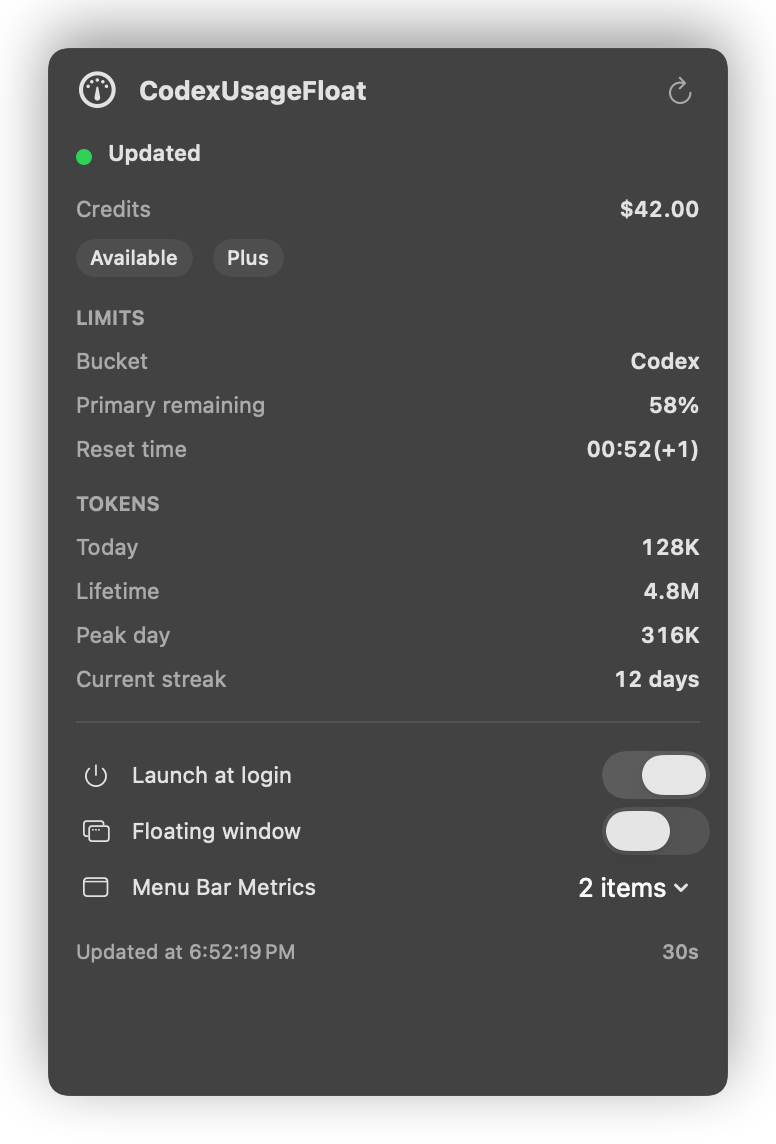
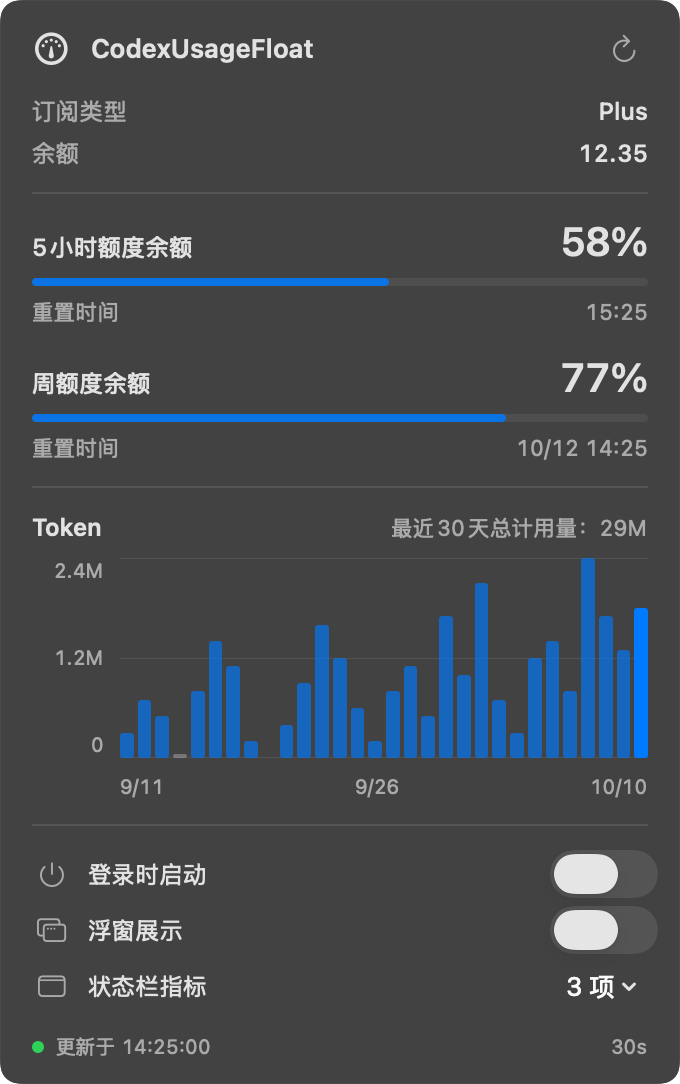
docs: restructure bilingual READMEs and refresh panel preview

diff --git a/README.md b/README.md
@@ -1,54 +1,94 @@
 # CodexUsageFloat
 
-一个用于显示代码智能体用量状态的小型 macOS 菜单栏工具。当前 provider 是 Codex，底层通过本地 Codex app-server 获取数据。
+**English** · [简体中文](README_CN.md)
 
-## 界面预览
+A macOS menu bar app that keeps your Codex quota, reset times, and token usage in view.
+
+[Download](https://github.com/pspgbhu/CodexUsageFloat/releases/latest) · [Report an issue](https://github.com/pspgbhu/CodexUsageFloat/issues)
 
 <p align="center">
-  <img src="docs/images/codex-usage-float-panel.png" alt="CodexUsageFloat 用量面板截图（示例数据）" width="388">
+  <img src="docs/images/codex-usage-float-panel.png" alt="CodexUsageFloat in Simplified Chinese, showing sample Plus quotas, a 30-day token usage chart, and display settings" width="340">
 </p>
 
-## 构建
+- **Quota at a glance.** View your subscription plan, credits, remaining quota, and reset times.
+- **30-day usage history.** Hover over the chart to inspect individual days.
+- **Your choice of display.** Select menu bar metrics or move them into a draggable floating window.
+- **Automatic updates.** Refreshes every 30 seconds by default, with manual refresh, launch at login, and English and Simplified Chinese interfaces.
+
+The preview uses sample Plus data. The quota periods shown depend on your subscription and the data available from Codex.
+
+## Install
+
+You need **macOS 13 or later** and a signed-in Codex client installed in `/Applications` as `ChatGPT.app` or `Codex.app`. Release packages support Apple Silicon and Intel Macs.
+
+1. Download the `.dmg` from [Releases](https://github.com/pspgbhu/CodexUsageFloat/releases/latest).
+2. Open it and drag `CodexUsageFloat.app` into Applications. For a `.zip` download, extract it and move the app there.
+3. Open CodexUsageFloat, then click its menu bar icon to view your usage.
+
+The app runs without a Dock icon. Launch at login is enabled by default and can be turned off in the panel.
+
+## Use
+
+| Action | How |
+| --- | --- |
+| Open the usage panel | Click the menu bar icon. |
+| Refresh now | Click the refresh button at the top of the panel. The footer shows the last successful refresh time and refresh interval. |
+| Choose visible metrics | Use **Menu Bar Metrics** in the panel. Select quota, reset time, or credits; choose **Icon only** to hide the text. |
+| Show a floating window | Enable **Floating window**, then drag it into position. Selected metrics move to the window; the menu bar keeps its icon. |
+| Change language or quit | Right-click the menu bar icon or floating window. |
+| Inspect a day's token usage | Hover over its column in the chart. |
+
+### Reading the numbers
+
+- **Quota percentages show what remains.** The current panel shows five-hour and weekly windows for Plus, and a weekly window for Pro. Other plans use recognized windows reported by Codex; missing values appear as unavailable.
+- **Credits are separate from quota percentages.** Numeric balances display at most two decimal places.
+- **Tokens are historical usage, not a remaining allowance.** The chart covers the past 30 days, including today. Its total sums only reported days; missing days are not treated as zero.
+- **A stale warning means the last refresh failed.** Previously retrieved values stay visible until a refresh succeeds. Data freshness also depends on what Codex reports.
+
+## Troubleshooting
+
+| Symptom | What to check |
+| --- | --- |
+| Login required or data unavailable | Open your Codex client, confirm you are signed in, then refresh the panel. |
+| Refresh stops after a client update | Update CodexUsageFloat and reopen it. The app supports both the current nested Codex CLI location in ChatGPT and older bundled locations. |
+| Data is marked stale | Check your connection and that the Codex client works, then refresh again. The displayed values are from the last successful refresh. |
+| macOS cannot verify the developer | Confirm the download came from this project's Releases. For an unnotarized build, use **System Settings → Privacy & Security → Open Anyway** after attempting to open it. |
+| Launch at login fails after moving the app | Open it from its new location, then turn **Launch at login** off and back on. |
+
+For a reproducible problem, [open an issue](https://github.com/pspgbhu/CodexUsageFloat/issues) with your macOS, Codex client, and CodexUsageFloat versions, steps to reproduce, and the visible error. Remove account details and credentials from screenshots or logs.
+
+## Update or uninstall
+
+**Update:** Quit CodexUsageFloat, replace it with the new version from [Releases](https://github.com/pspgbhu/CodexUsageFloat/releases/latest), and reopen it. Keep it in the same location so the login item still points to the app.
+
+**Uninstall:** Disable **Launch at login** in the panel, quit the app, and delete it from Applications.
+
+## Data and privacy
+
+CodexUsageFloat asks the local Codex app server for account and usage information using the client's existing login. You do not enter a password or API key in this app. It saves display preferences and keeps fetched usage in memory, without storing its own copy of login credentials or usage history.
+
+The app focuses on Codex. Token usage is supplied by Codex; it is not estimated from your conversations.
+
+## Build from source
+
+Use a macOS Swift toolchain that supports Swift tools version 5.9 or later. Running the test suite also requires XCTest.
 
 ```bash
+git clone https://github.com/pspgbhu/CodexUsageFloat.git
+cd CodexUsageFloat
 swift build -c release
-```
-
-## 运行测试
-
-```bash
 swift test
-```
-
-## 打包为应用
-
-```bash
 scripts/package-app.sh
 open dist/CodexUsageFloat.app
 ```
 
-## 安装登录启动 LaunchAgent
+The packaging script produces `dist/CodexUsageFloat.app` and falls back to direct `swiftc` compilation if SwiftPM fails. This fallback packages the app; it does not run the test suite. If `swift test` reports that XCTest is missing, use an Xcode toolchain that includes it.
 
-```bash
-scripts/install-launch-agent.sh
-```
+| Location | Purpose |
+| --- | --- |
+| `Sources/AgentUsageCore` | Usage models, provider protocol, Codex app-server client, and response mapping. |
+| `Sources/CodexUsageFloat` | SwiftUI/AppKit interface, preferences, and login item management. |
+| `Tests/AgentUsageCoreTests` | Core model, formatting, protocol, and executable discovery tests. |
+| `scripts/` | App packaging, release artifacts, and LaunchAgent installation/removal. |
 
-如需在不安装的情况下验证 LaunchAgent plist：
-
-```bash
-DRY_RUN=1 PLIST_PATH=/tmp/com.local.codex-usage-float.plist scripts/install-launch-agent.sh
-```
-
-## 卸载
-
-```bash
-scripts/uninstall-launch-agent.sh
-```
-
-应用采用面向 provider 的设计：
-
-- `AgentUsageCore` 负责通用用量模型和 `UsageProvider` 协议。
-- `CodexUsageProvider` 是第一个 provider 实现，优先通过 `/Applications/ChatGPT.app/Contents/Resources/codex app-server --stdio` 读取用量，并兼容旧版 `Codex.app` 路径。
-- `CodexUsageFloat` 渲染 `UsageProvider` 提供的内容，因此新增代码智能体时无需重写菜单栏 UI。
-
-应用不会读取 `~/.codex/auth.json`，也不会持久化 token、邮箱地址或原始 provider 响应。
+For contribution constraints, see [AGENTS.md](AGENTS.md). For signing, notarization, and release packaging, see the [release guide](docs/releasing.md) (Chinese).

diff --git a/README_CN.md b/README_CN.md
@@ -1,0 +1,94 @@
+# CodexUsageFloat
+
+[English](README.md) · **简体中文**
+
+一款 macOS 菜单栏工具，随时查看 Codex 剩余额度、重置时间和 Token 用量。
+
+[下载最新版](https://github.com/pspgbhu/CodexUsageFloat/releases/latest) · [问题反馈](https://github.com/pspgbhu/CodexUsageFloat/issues)
+
+<p align="center">
+  <img src="docs/images/codex-usage-float-panel.png" alt="CodexUsageFloat 中文面板：Plus 示例额度、近 30 天 Token 用量图表与显示设置" width="340">
+</p>
+
+- **额度一目了然**：查看订阅类型、余额、剩余额度与重置时间。
+- **近 30 天用量**：将鼠标移到图表上，查看每天的 Token 使用情况。
+- **自选显示方式**：选择菜单栏指标，或将指标移到可拖动的桌面浮窗。
+- **自动更新**：默认每 30 秒刷新，支持手动刷新、登录时启动和中英文界面。
+
+预览使用 Plus 示例数据。实际显示的额度周期取决于订阅类型及 Codex 返回的数据。
+
+## 安装
+
+需要 **macOS 13 或更新版本**，并已在 `/Applications`（应用程序）中安装和登录 Codex 客户端 `ChatGPT.app` 或 `Codex.app`。发布安装包兼容 Apple Silicon 和 Intel Mac。
+
+1. 从 [Releases](https://github.com/pspgbhu/CodexUsageFloat/releases/latest) 下载 `.dmg` 安装包。
+2. 打开安装包，将 `CodexUsageFloat.app` 拖入「应用程序」。若下载 `.zip`，解压后将应用移入同一位置。
+3. 打开 CodexUsageFloat，点击菜单栏图标查看用量。
+
+应用不显示 Dock 图标。默认开启「登录时启动」，可在面板中关闭。
+
+## 使用
+
+| 操作 | 方法 |
+| --- | --- |
+| 打开用量面板 | 点击菜单栏图标 |
+| 立即刷新 | 点击面板顶部的刷新按钮；底部显示上次成功更新时间和刷新间隔 |
+| 选择显示指标 | 在面板的「状态栏指标」中选择额度、重置时间或余额；选择「仅显示图标」可隐藏文字 |
+| 开启桌面浮窗 | 打开「浮窗展示」并拖动到合适位置；所选指标移到浮窗，菜单栏保留图标 |
+| 切换语言或退出 | 右键点击菜单栏图标或浮窗 |
+| 查看某天的 Token 用量 | 将鼠标移到图表中对应日期的列上 |
+
+### 如何理解数据
+
+- **额度百分比表示剩余比例。** 当前面板为 Plus 显示 5 小时和周额度，为 Pro 显示周额度；其他套餐根据 Codex 返回的已识别周期展示，缺失的数值显示为不可用。
+- **余额与额度百分比分开显示。** 数值余额最多保留两位小数。
+- **Token 图表展示历史使用量，不代表剩余 Token。** 图表覆盖含今天在内的近 30 天，合计仅累加已上报日期的数据；未上报的日期不按零计算。
+- **过期提示表示最近一次刷新失败。** 面板保留之前成功获取的数值，直到刷新成功。数据的新鲜程度也取决于 Codex 的上报情况。
+
+## 常见问题
+
+| 遇到的情况 | 处理方式 |
+| --- | --- |
+| 提示需要登录或数据不可用 | 打开 Codex 客户端，确认已登录，再刷新面板 |
+| 客户端更新后无法刷新 | 更新并重新打开 CodexUsageFloat；应用兼容 ChatGPT 当前的内嵌 Codex CLI 目录及旧版程序路径 |
+| 提示数据可能过期 | 检查网络及 Codex 客户端是否正常，再刷新；当前数值来自上次成功获取的数据 |
+| macOS 提示无法验证开发者 | 确认下载来自本项目 Releases；对于未公证的版本，尝试打开后，在「系统设置 → 隐私与安全性」中选择「仍要打开」 |
+| 移动应用后无法登录自启 | 从新位置打开应用，将「登录时启动」关闭后重新开启 |
+
+若问题可复现，请在 [Issues](https://github.com/pspgbhu/CodexUsageFloat/issues) 中提供 macOS、Codex 客户端和 CodexUsageFloat 的版本、复现步骤及可见错误。分享截图或日志前，请移除账号信息和凭据。
+
+## 更新与卸载
+
+**更新**：先退出 CodexUsageFloat，从 [Releases](https://github.com/pspgbhu/CodexUsageFloat/releases/latest) 下载新版并替换原应用，再重新打开。保持安装位置不变，避免登录启动项指向旧位置。
+
+**卸载**：在面板中关闭「登录时启动」，退出应用，再从「应用程序」中删除。
+
+## 数据与隐私
+
+CodexUsageFloat 通过本机 Codex app server，使用客户端已有的登录状态获取账号与用量信息，无需在本工具中填写密码或 API Key。应用保存显示偏好，将获取的用量保留在内存中，不另存登录凭据或用量历史。
+
+本工具专注于 Codex。Token 用量由 Codex 提供，不通过分析对话内容估算。
+
+## 从源码构建
+
+需要支持 Swift tools version 5.9 或更高版本的 macOS Swift 工具链；运行测试还需要 XCTest。
+
+```bash
+git clone https://github.com/pspgbhu/CodexUsageFloat.git
+cd CodexUsageFloat
+swift build -c release
+swift test
+scripts/package-app.sh
+open dist/CodexUsageFloat.app
+```
+
+打包脚本生成 `dist/CodexUsageFloat.app`，并在 SwiftPM 构建失败时回退到直接使用 `swiftc` 编译。回退只负责打包，不会执行测试；若 `swift test` 提示缺少 XCTest，请使用包含 XCTest 的 Xcode 工具链。
+
+| 目录 | 用途 |
+| --- | --- |
+| `Sources/AgentUsageCore` | 通用用量模型、provider 协议、Codex app-server 客户端与响应映射 |
+| `Sources/CodexUsageFloat` | SwiftUI/AppKit 界面、偏好设置和登录启动项管理 |
+| `Tests/AgentUsageCoreTests` | 核心模型、格式化、协议和程序路径探测测试 |
+| `scripts/` | 应用打包、发布产物生成及 LaunchAgent 安装与卸载 |
+
+修改代码前请阅读 [AGENTS.md](AGENTS.md)；签名、公证与发布流程见[发布说明](docs/releasing.md)。
